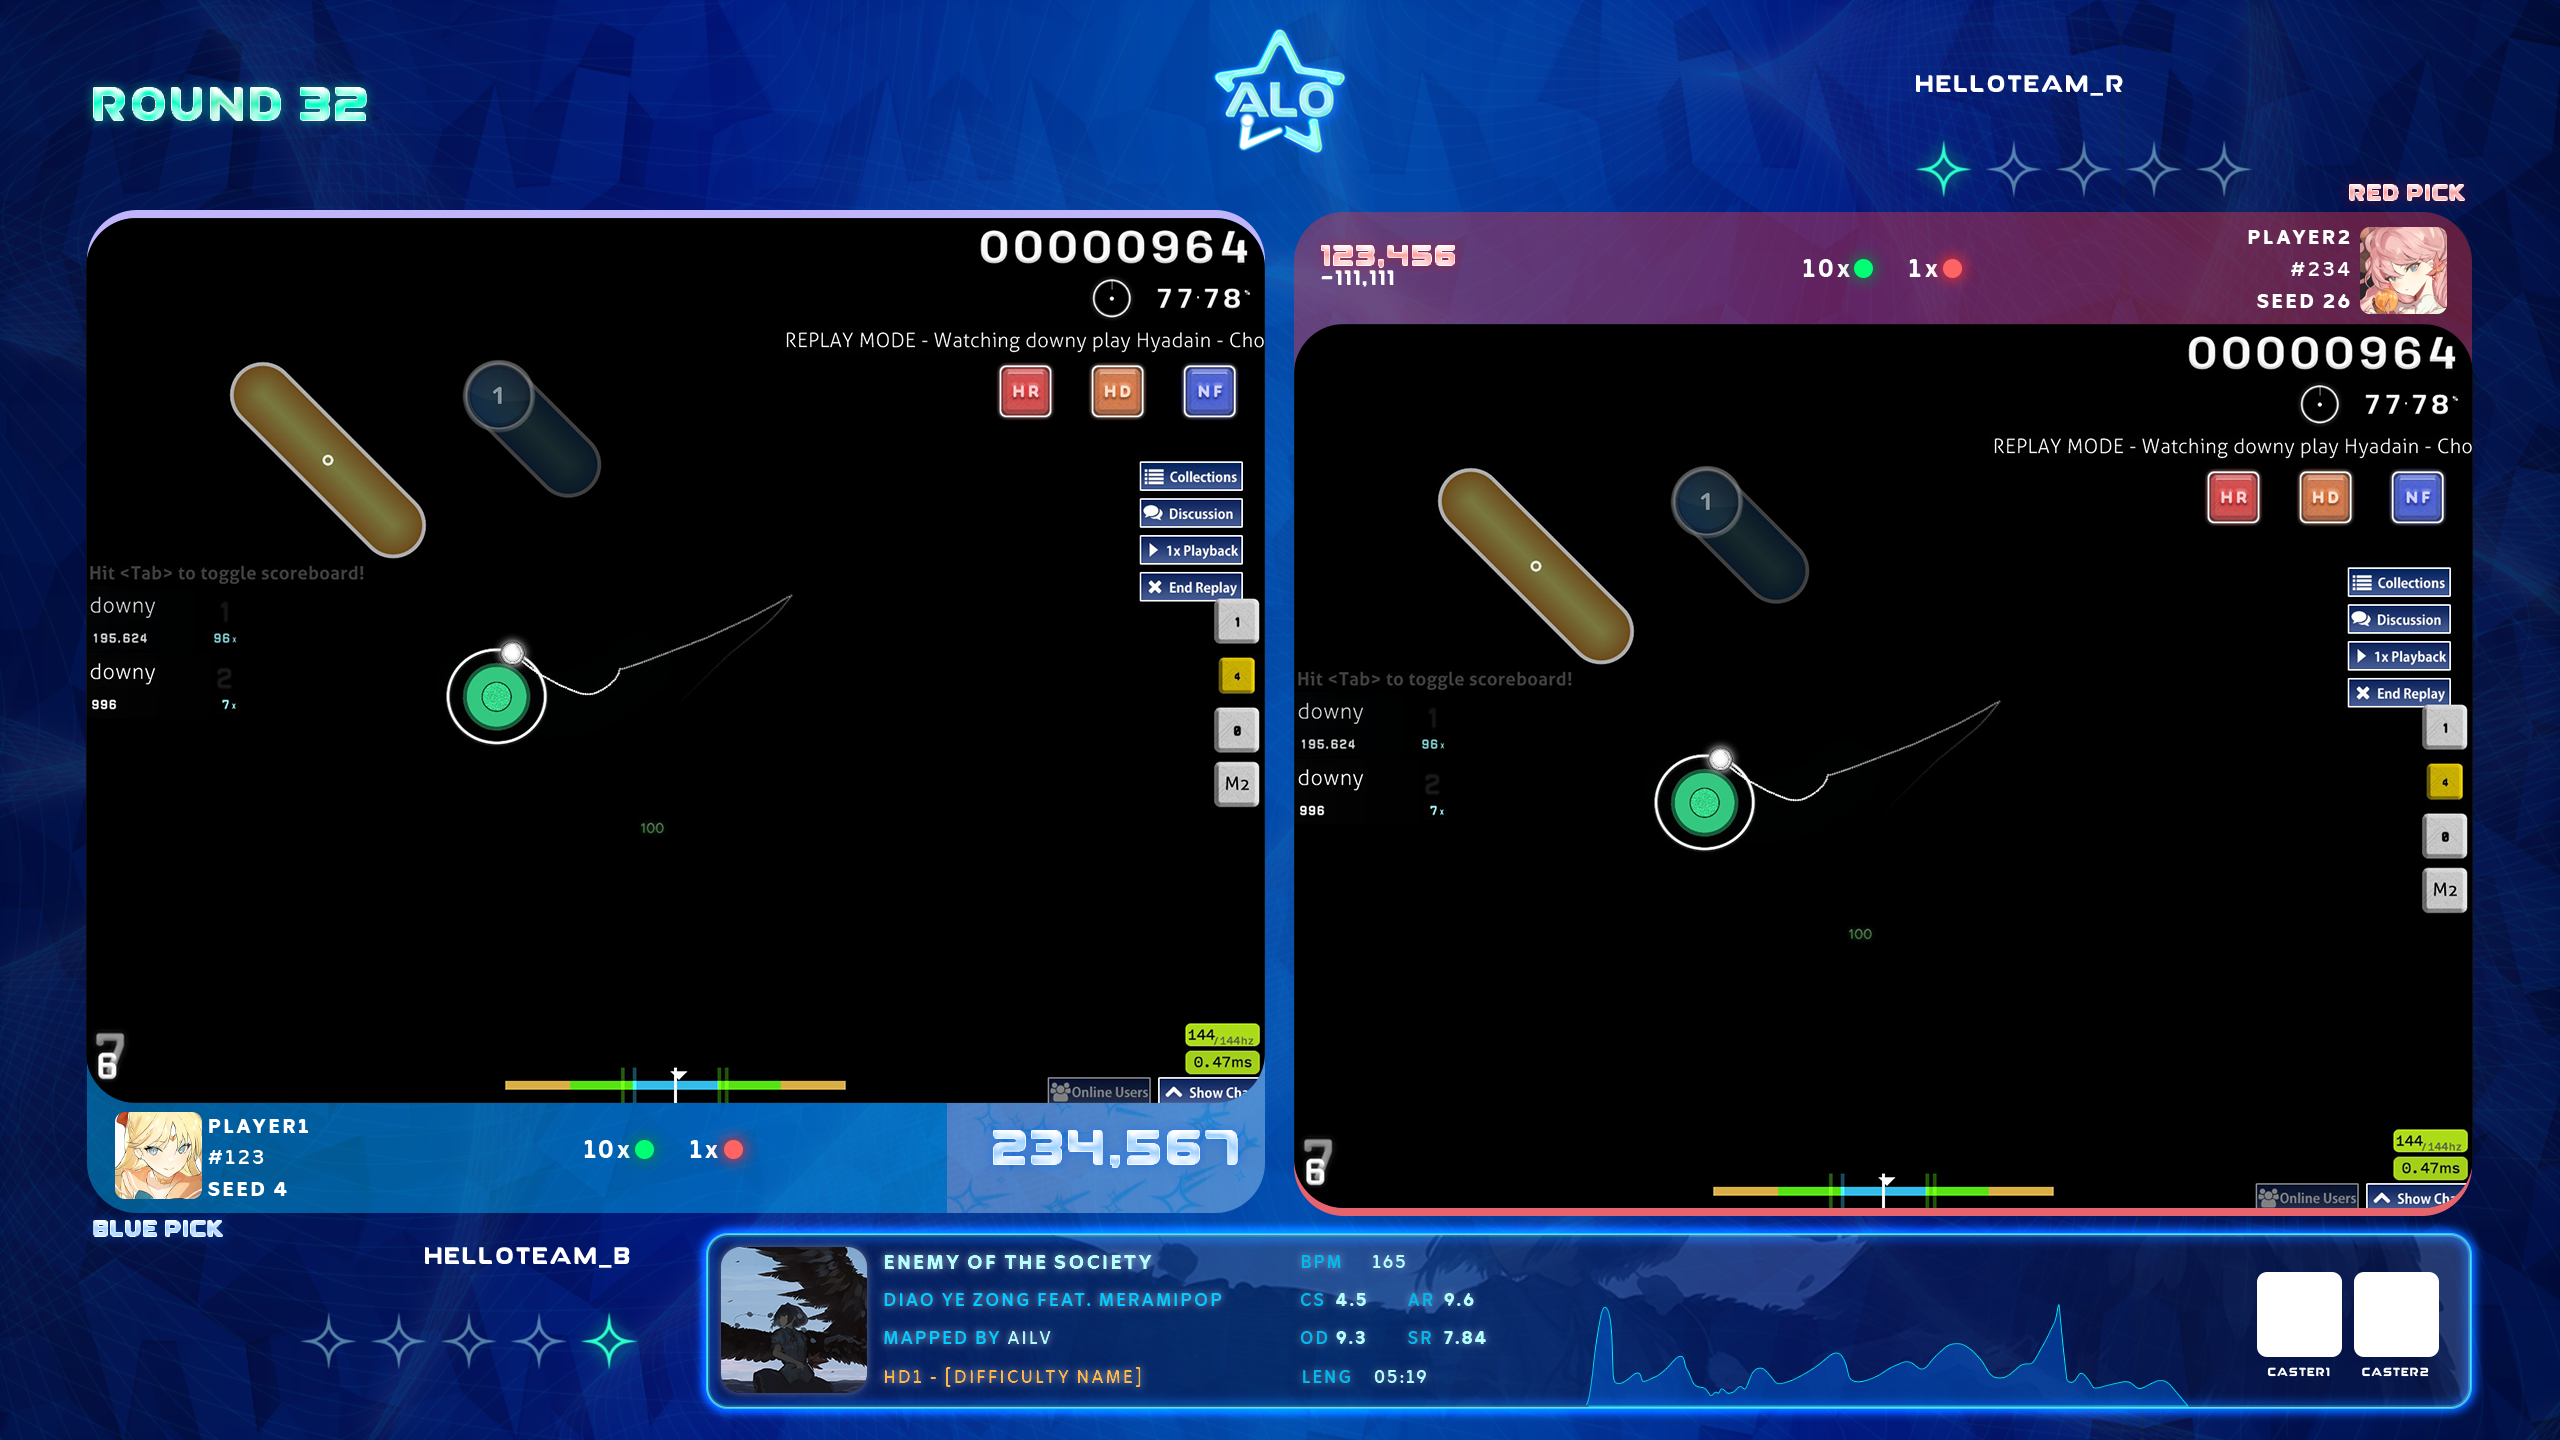
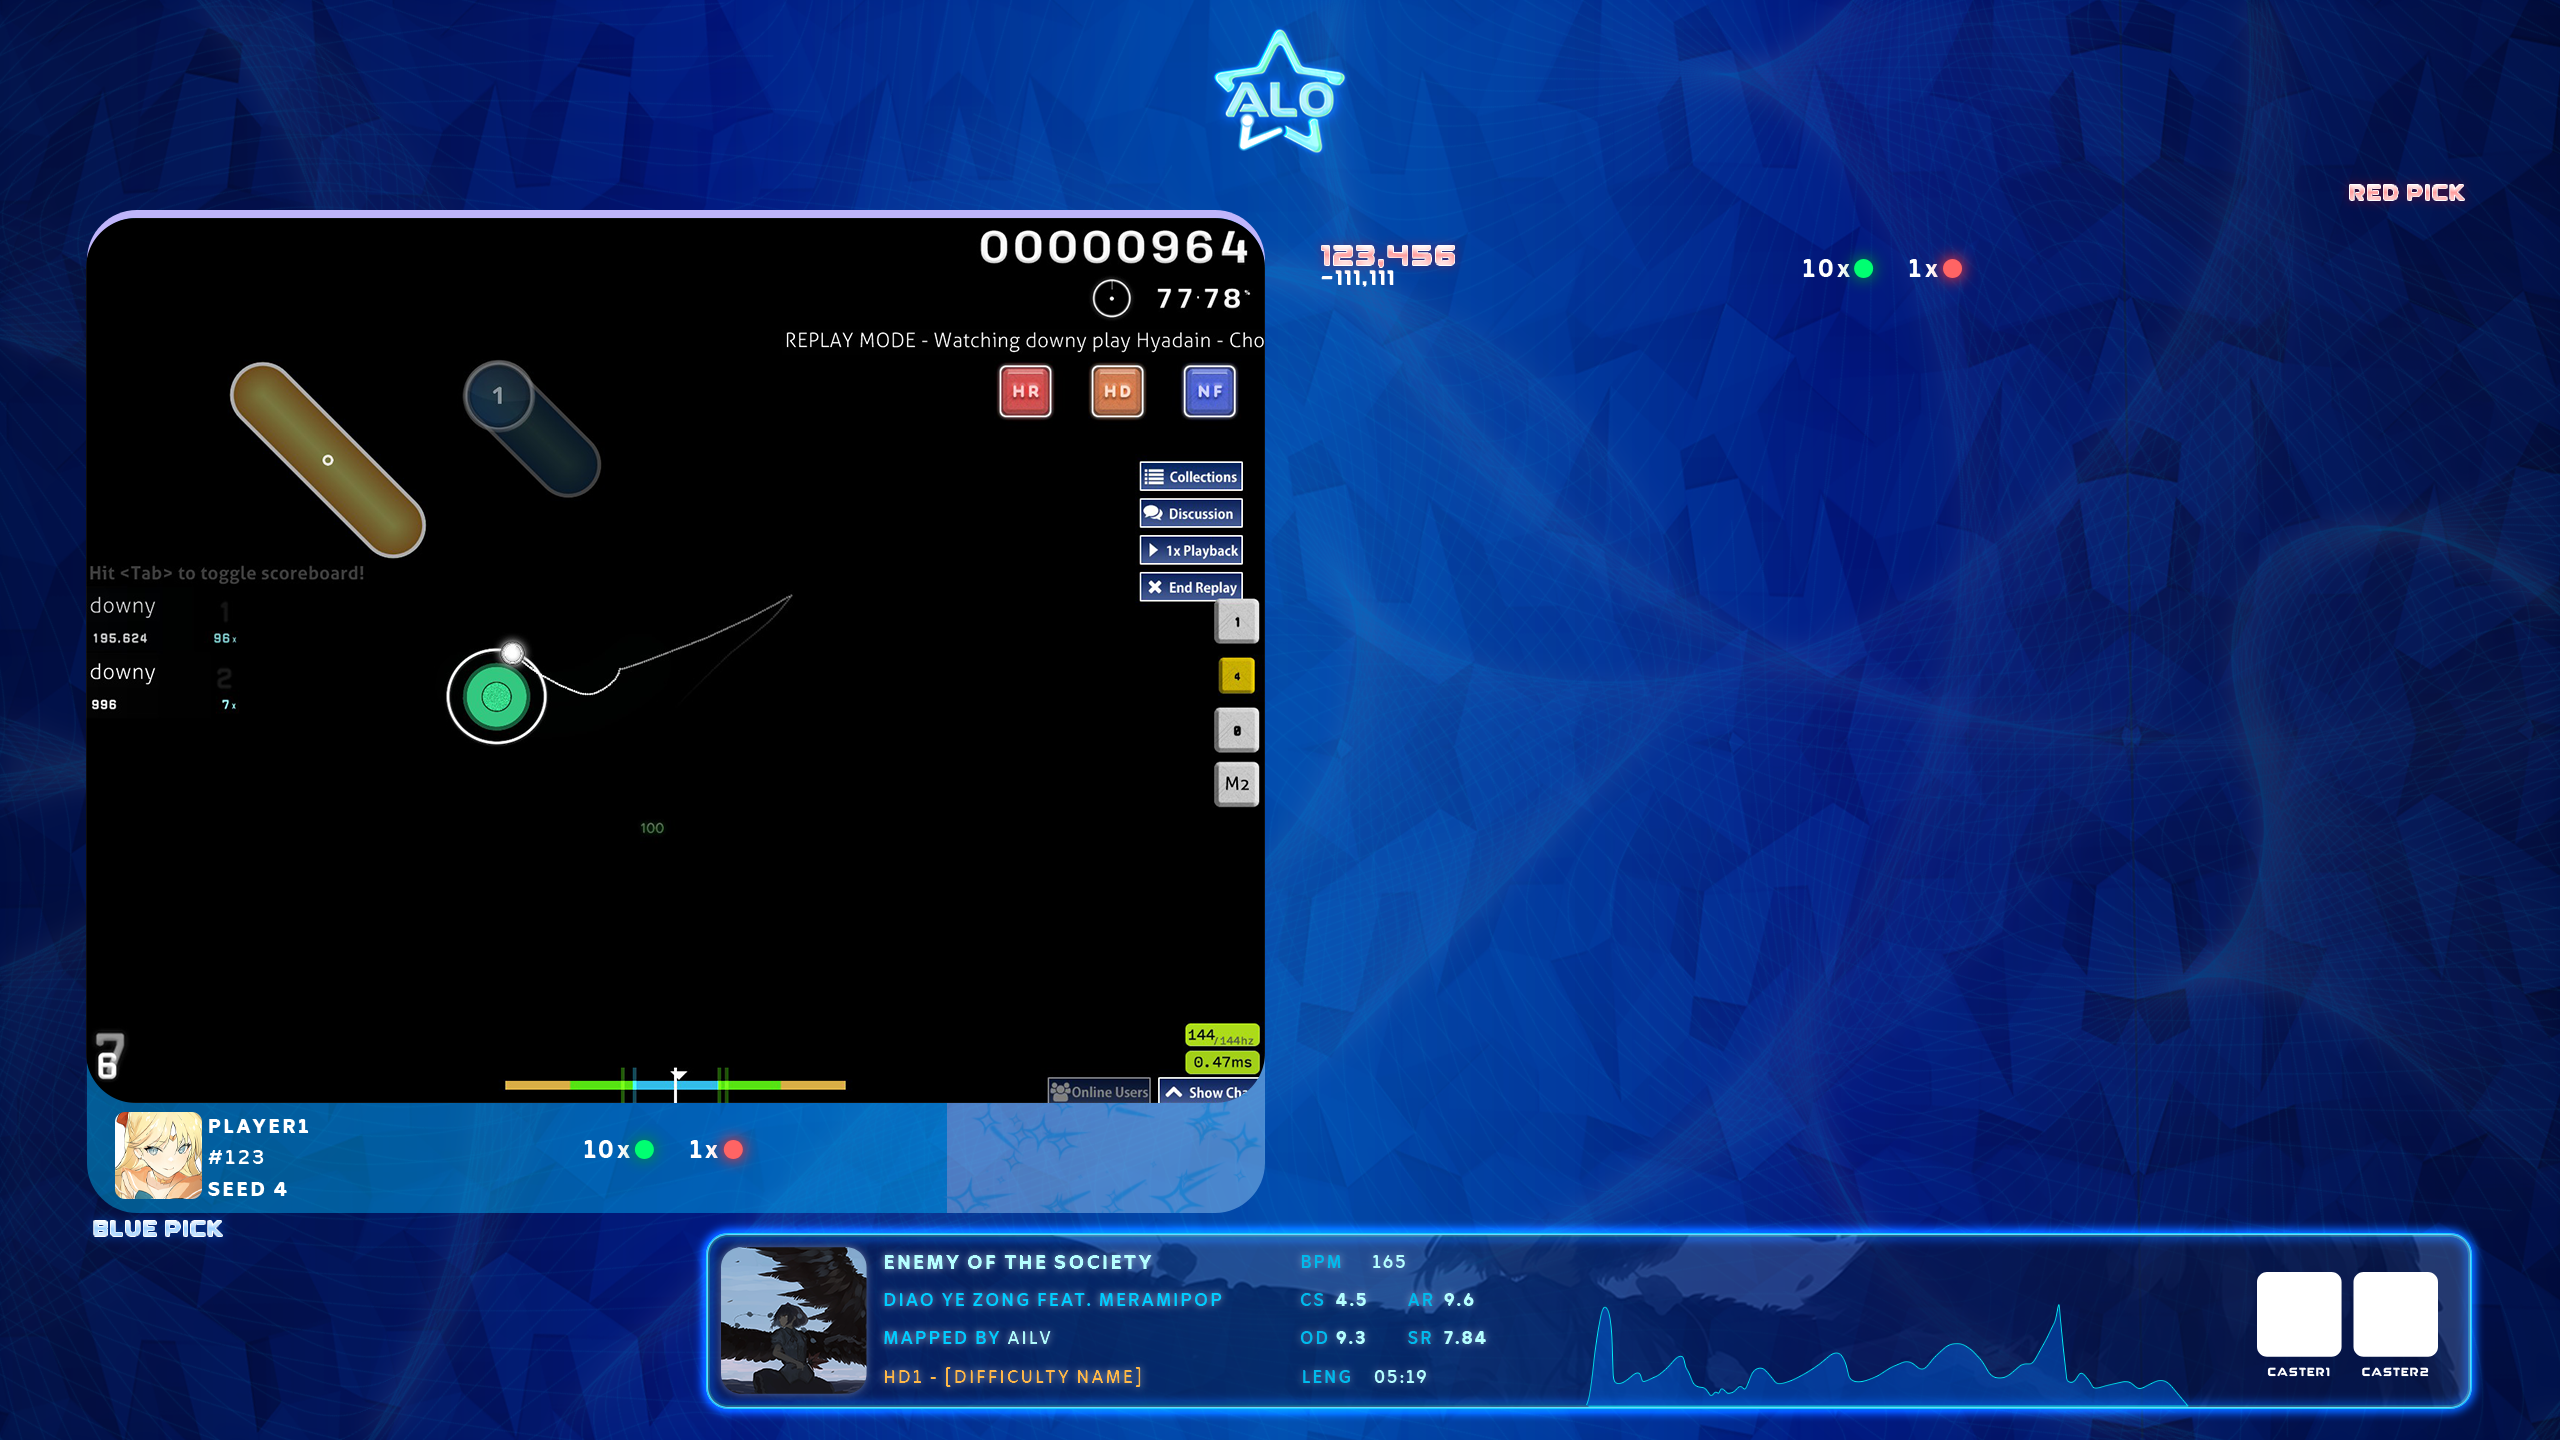
Complete main scoring component

diff --git a/main/index.html b/main/index.html
@@ -47,6 +47,16 @@
                     <div class="gameplay-section-hits-circle gameplay-hits-circle-0"></div>
                 </div>
             </div>
+            <div class="gameplay-section-score-number-main">
+                <img src="static/score-numbers/red_2.png">
+                <img src="static/score-numbers/red_3.png">
+                <img src="static/score-numbers/red_4.png">
+                <img src="static/score-numbers/red_comma.png">
+                <img src="static/score-numbers/red_5.png">
+                <img src="static/score-numbers/red_6.png">
+                <img src="static/score-numbers/red_7.png">
+            </div>
+            
         </section>
     </div>
     <script src="index.js"></script>

diff --git a/main/css/gameplay.css b/main/css/gameplay.css
@@ -133,3 +133,16 @@
     background-color: #ff6464;
     box-shadow: 0 0 18px #ff6464;
 }
+
+/* ===========================
+   Score Number Main
+=========================== */
+.gameplay-section-score-number-main {
+    position: absolute;
+    bottom: 37px;
+    right: 16px;
+    display: flex;
+}
+.gameplay-section-score-number-main > * {
+    margin-left: -15px;
+}
